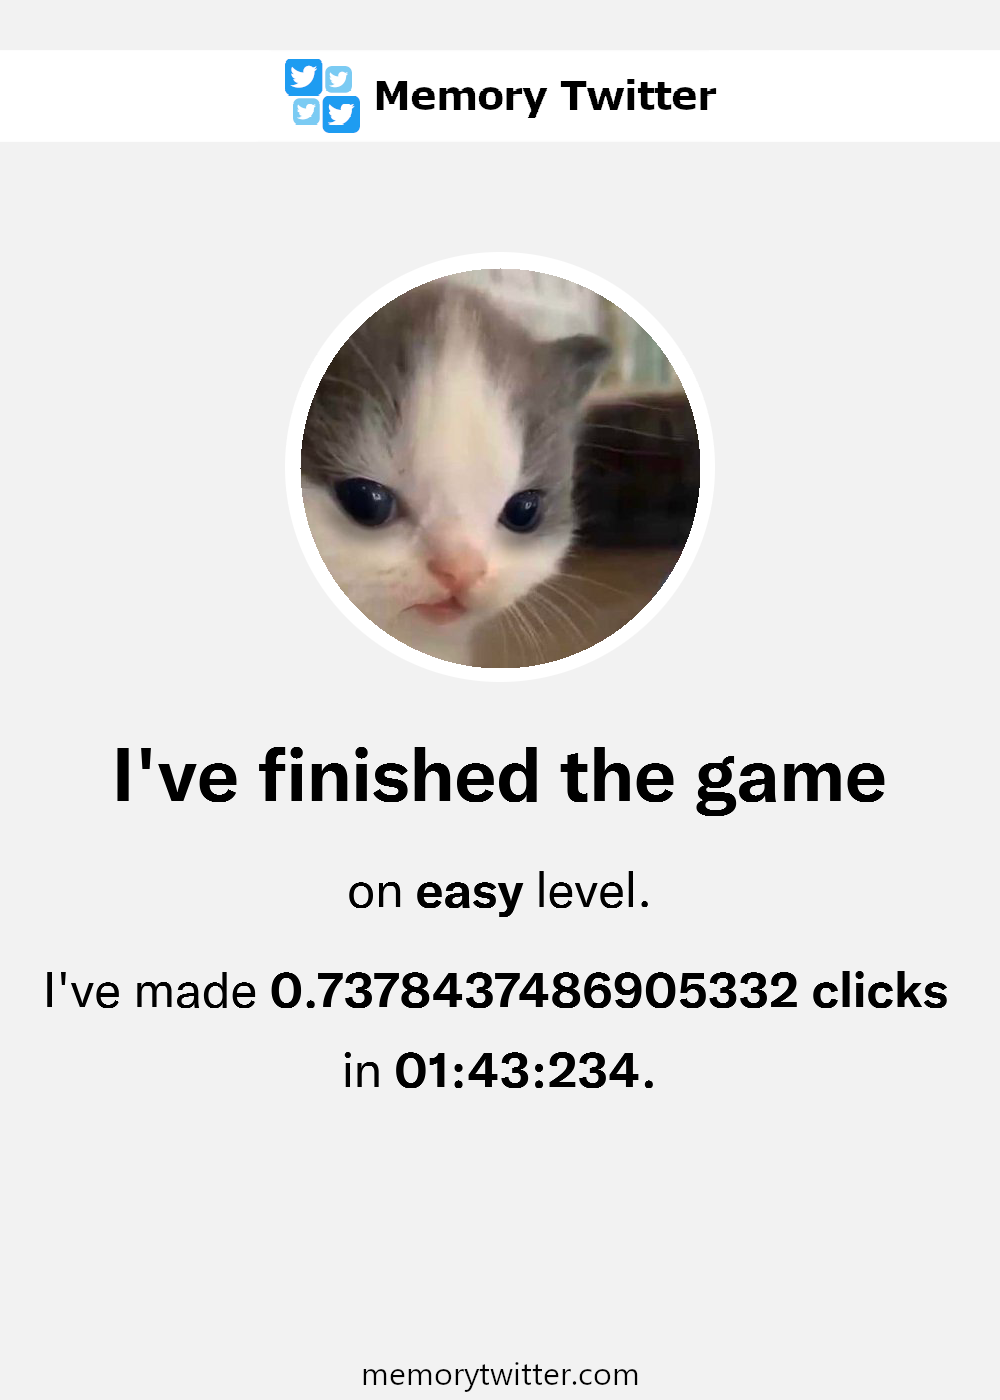
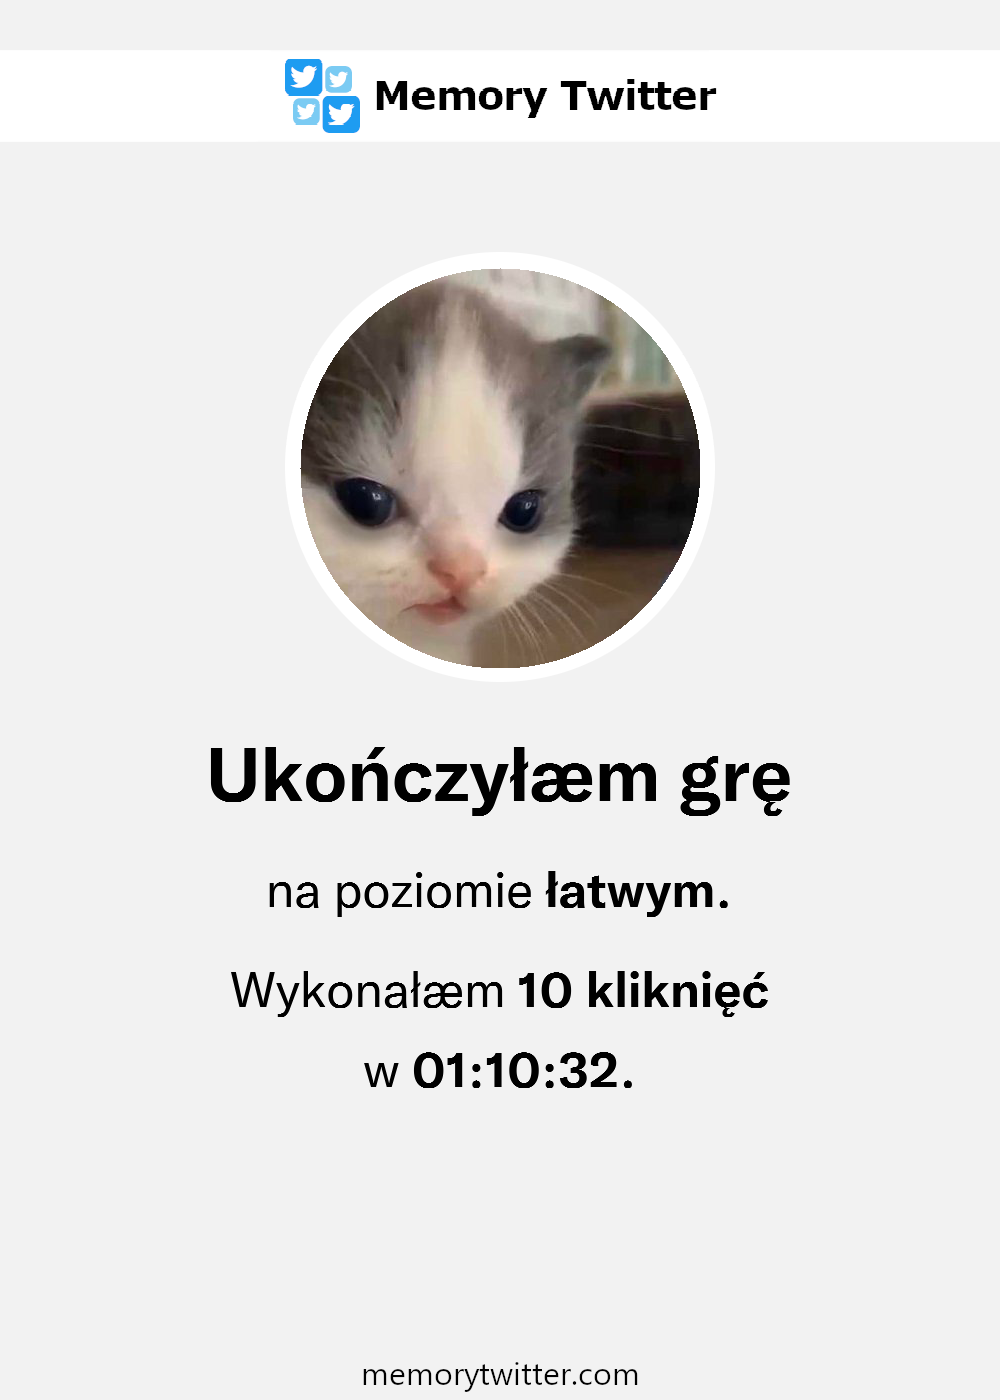
Tweet: Add translations

Changed region(s): [[0.062, 0.6143, 0.961, 0.7986], [0.093, 0.5221, 0.899, 0.5836]]

diff --git a/src/api/tweet/tweet.service.ts b/src/api/tweet/tweet.service.ts
@@ -12,12 +12,12 @@ import userService from '../user/user.service';
 import { TextInfo } from './tweet.model';
 
 export const createImage = async (req: Request): Promise<Bitmap> => {
+  const t = req.t;
   if (!req.canvas) {
-    throw new BadRequestException('Nie możesz wysłać tweeta');
+    throw new BadRequestException(t('errors:not-tweet'));
   }
 
   const { context, image } = req.canvas;
-  const t = req.t;
 
   const me = await userService.me(req);
   if (!me) {
@@ -40,35 +40,10 @@ export const createImage = async (req: Request): Promise<Bitmap> => {
     }
   }
 
-  writeText([{ bold: true, text: "I've finished the game" }], 75, 730, context);
-  writeText(
-    [
-      { bold: false, text: 'on' },
-      { bold: true, text: 'easy' },
-      { bold: false, text: 'level.' },
-    ],
-    50,
-    860,
-    context
-  );
-  writeText(
-    [
-      { bold: false, text: "I've made" },
-      { bold: true, text: Math.random() + ' clicks' },
-    ],
-    50,
-    960,
-    context
-  );
-  writeText(
-    [
-      { bold: false, text: 'in' },
-      { bold: true, text: '01:43:234.' },
-    ],
-    50,
-    1040,
-    context
-  );
+  writeText(t('tweet:game-finished', { returnObjects: true }), 75, 730, context);
+  writeText(t('tweet:level', { context: 'easy', returnObjects: true }), 50, 860, context);
+  writeText(t('tweet:clicks', { count: 10, clicks: 10, returnObjects: true }), 50, 960, context);
+  writeText(t('tweet:time', { time: '01:10:32', returnObjects: true }), 50, 1040, context);
 
   return image;
 };

diff --git a/src/index.ts b/src/index.ts
@@ -48,7 +48,7 @@ i18next
   .init({
     fallbackLng: 'en',
     load: 'languageOnly',
-    ns: ['errors'],
+    ns: ['errors', 'tweet'],
     backend: {
       loadPath: './src/translations/{{lng}}/{{ns}}.json',
       crossDomain: true,
